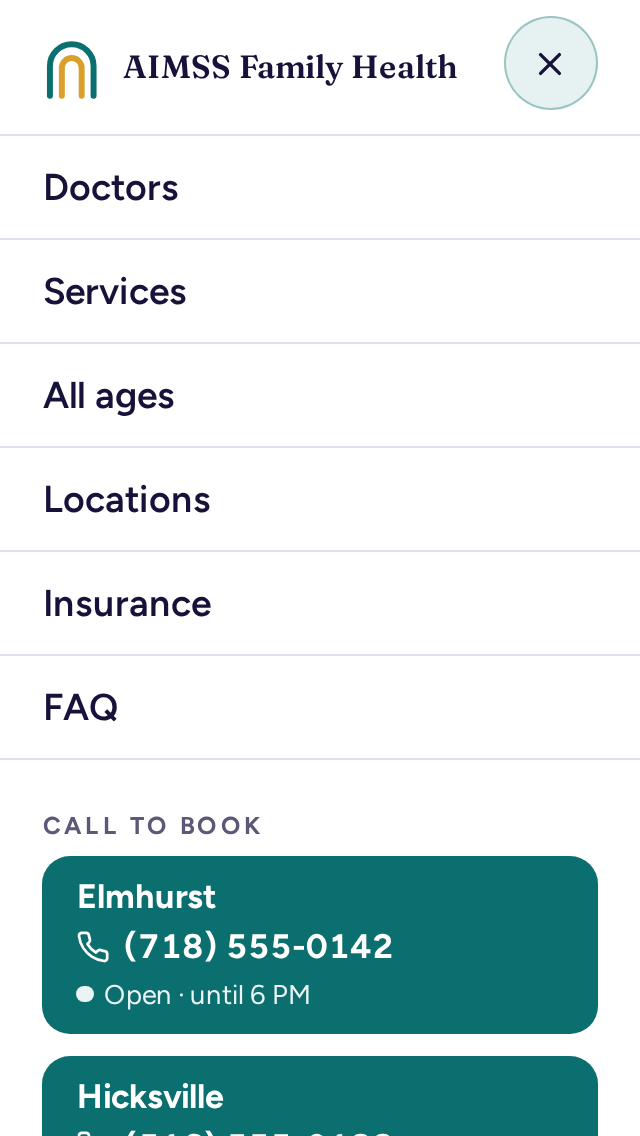
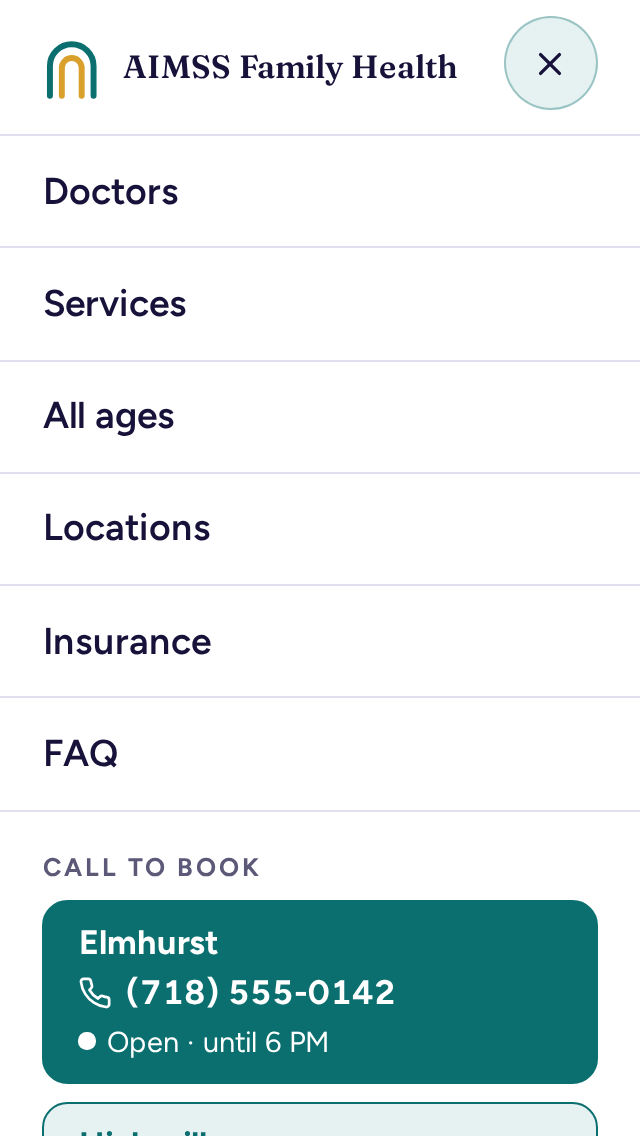
fix: phone menu council round 2 (one filled call row, callback row, a11y fixes)

diff --git a/workspace/04-logs/LOG.md b/workspace/04-logs/LOG.md
@@ -145,3 +145,4 @@
 - 2026-11-02: navbar redesign (Opus) + review fixes + code-review fixes: scroll lock below 1280 px, stagger index clamp, drawer focus starts on Close, focus return without scroll jump; full front-end review in 02-analysis/frontend-review-2026-11-02.md (items needing owner/client listed there).
 - 2026-11-02: RECOVERED after a power cut: mobile menu redesign agreed by council (single column, two filled call rows, no unconfirmed links) but NOT built. Owner's 'good resource' on competitor mobile navs was lost; ask for the link and save it in 01-research/. Memory notes: ~/.claude/projects/-mnt-all-Sakib/memory/.
 - 2026-11-02: mobile menu rebuilt per council (branch feat/mobile-menu-single-column, not merged): 6 single-column sans links, two filled call rows with text status, 911 line, outlined Request, language text. Shots: 04-logs/mobile-menu/. Second council review next.
+- 2026-11-02: mobile menu council round 2 (UX, a11y, visual critics) applied: Elmhurst filled + Hicksville outlined, 12 px radius, 'Request a callback' nav row, 911 + language at the bottom, sticky Close, Space key on Menu, focus not pulled back after a link tap, sr-only 'Call AIMSS Family Health', forced-colours ring. Not done: re-run open status when the drawer opens. QA: no overflow, no small targets.
